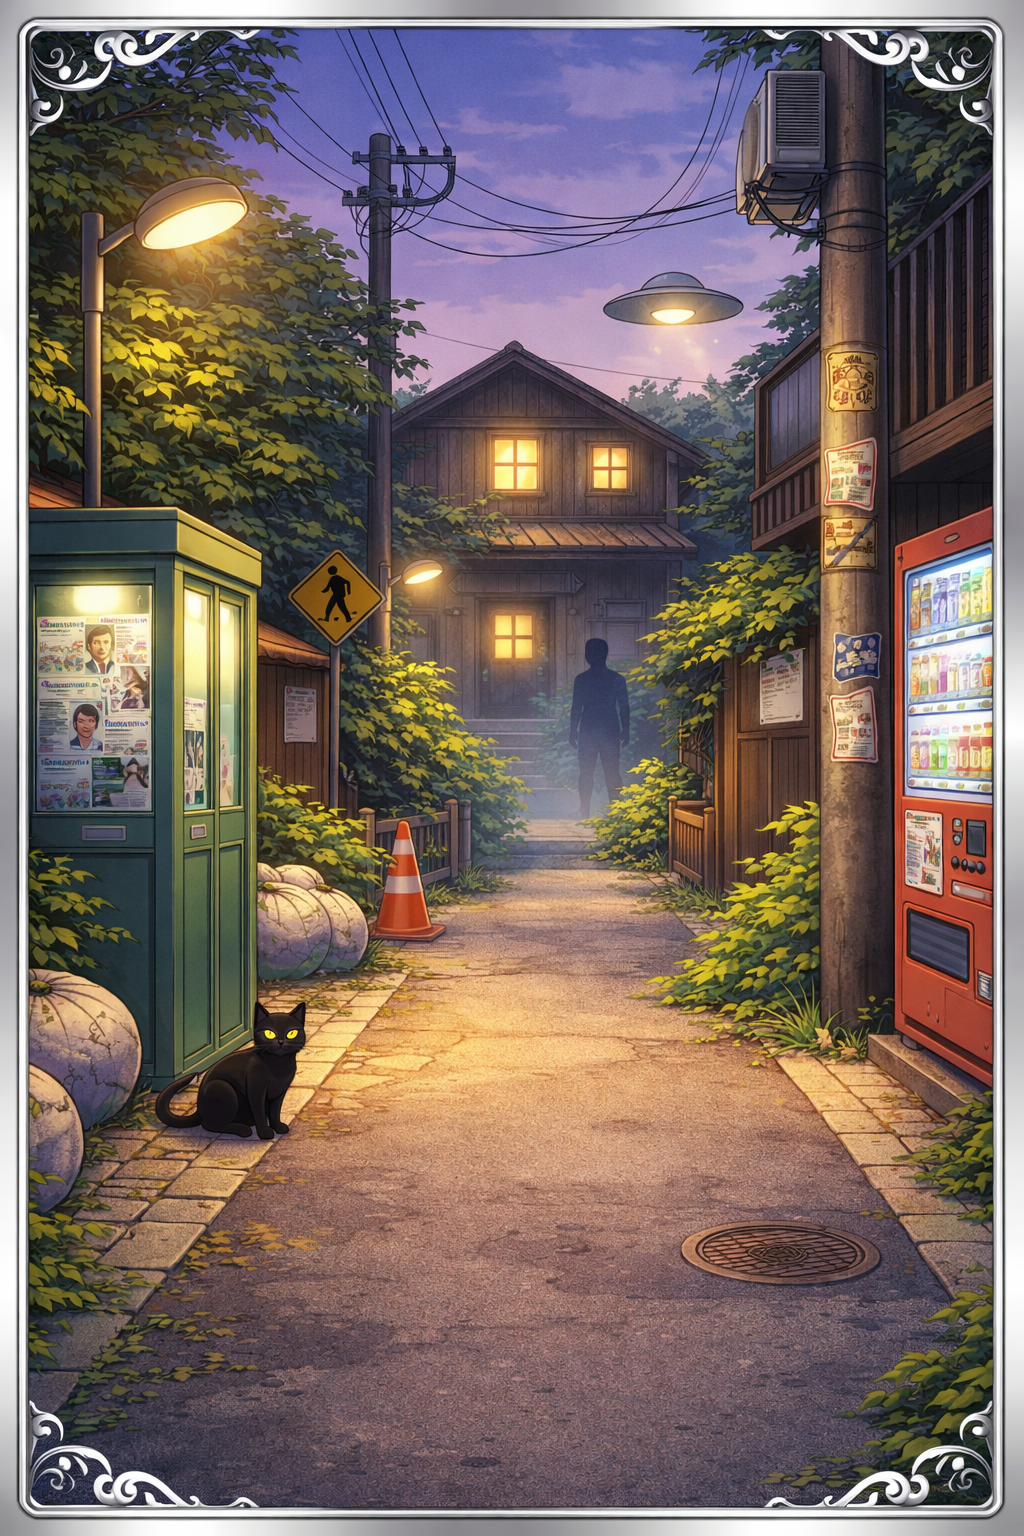
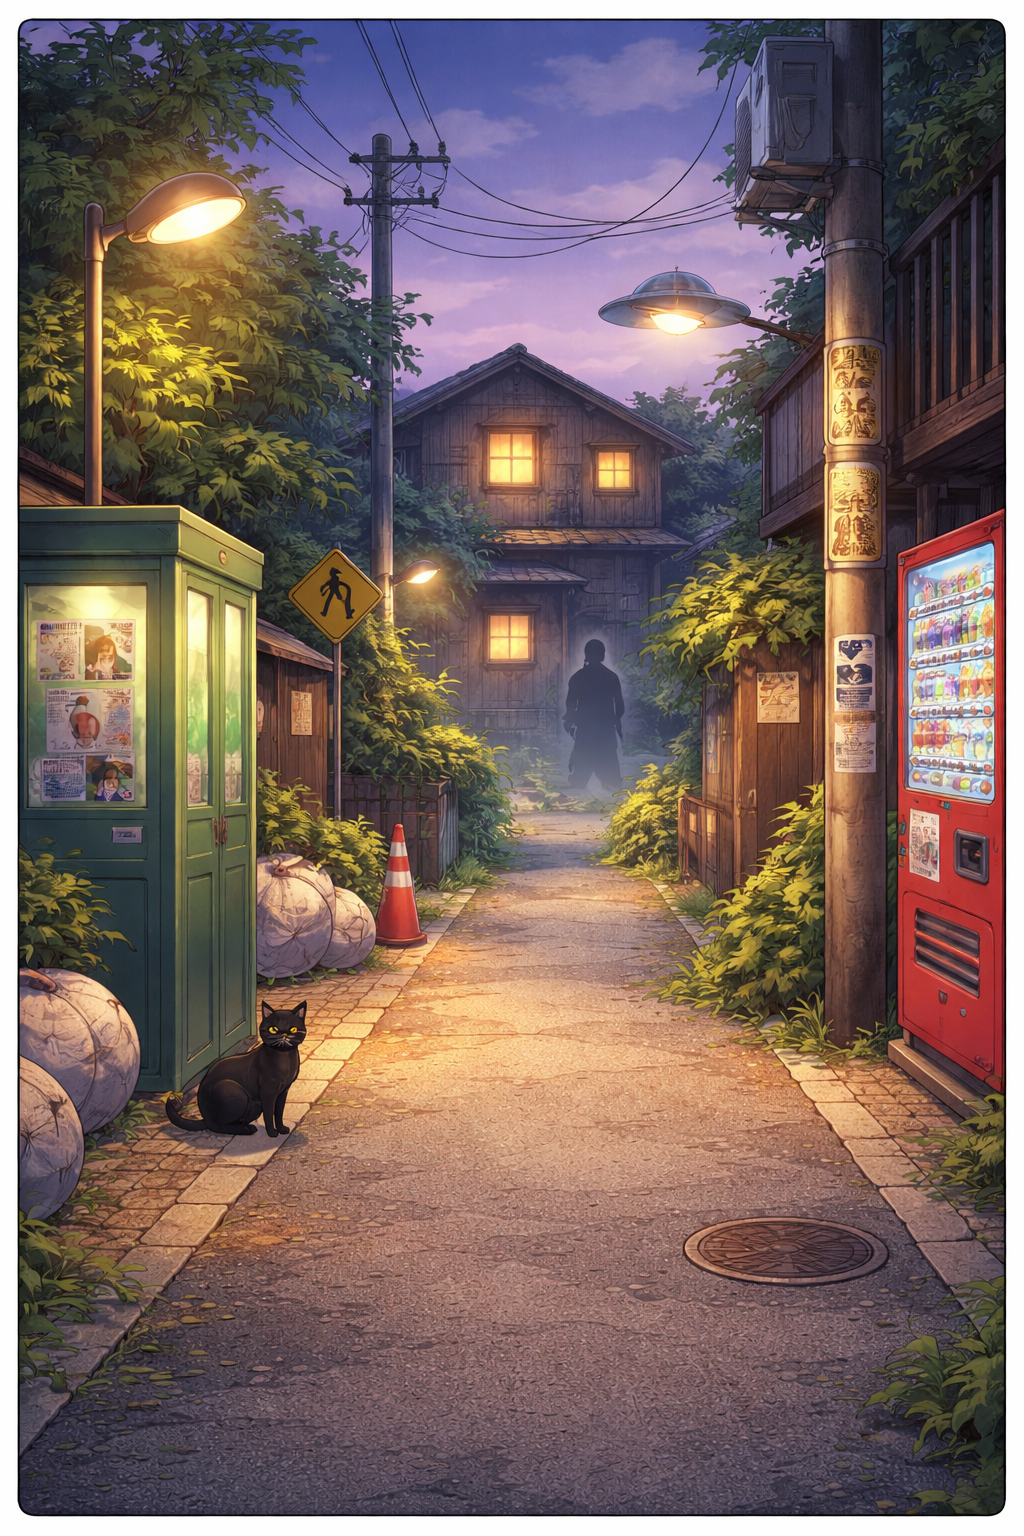
second deploy

diff --git a/app/components/ShareCard.tsx b/app/components/ShareCard.tsx
@@ -17,6 +17,9 @@ type RankedType = {
   traits: CharacterTraits;
 };
 
+
+type Rarity = "R" | "SR" | "SSR" | "UR";
+
 type ShareCardProps = {
   main: RankedType;
   sub?: RankedType;
@@ -32,7 +35,11 @@ type ShareCardProps = {
   rarityLabel?: Rarity;
 };
 
-type Rarity = "N" | "R" | "SR" | "SSR";
+
+
+
+
+
 
 type StatItem = {
   label: string;
@@ -44,11 +51,13 @@ function clamp(value: number, min = 0, max = 100) {
 }
 
 function getRarity(totalScore: number): Rarity {
-  if (totalScore >= 175) return "SSR";
-  if (totalScore >= 145) return "SR";
-  if (totalScore >= 115) return "R";
-  return "N";
+  if (totalScore >= 175) return "UR";
+  if (totalScore >= 145) return "SSR";
+  if (totalScore >= 115) return "SR";
+  return "R";
 }
+
+
 
 function getMixRatio(mainScore: number, subScore: number) {
   const safeMain = Math.max(0, mainScore);
@@ -144,17 +153,19 @@ const rarityTheme: Record<
 };
 
 const rarityBackgroundMap: Record<Rarity, string> = {
-  N: "/card-bg/n.png",
+  
   R: "/card-bg/r.png",
   SR: "/card-bg/sr.png",
   SSR: "/card-bg/ssr.png",
+  UR: "/card-bg/ur.png",
 };
 
 const backgroundOpacityMap: Record<Rarity, string> = {
-  N: "opacity-60",
+ 
   R: "opacity-70",
   SR: "opacity-80",
   SSR: "opacity-95",
+  UR: "opacity-95",
 };
 
 function cx(...values: Array<string | false | null | undefined>) {
